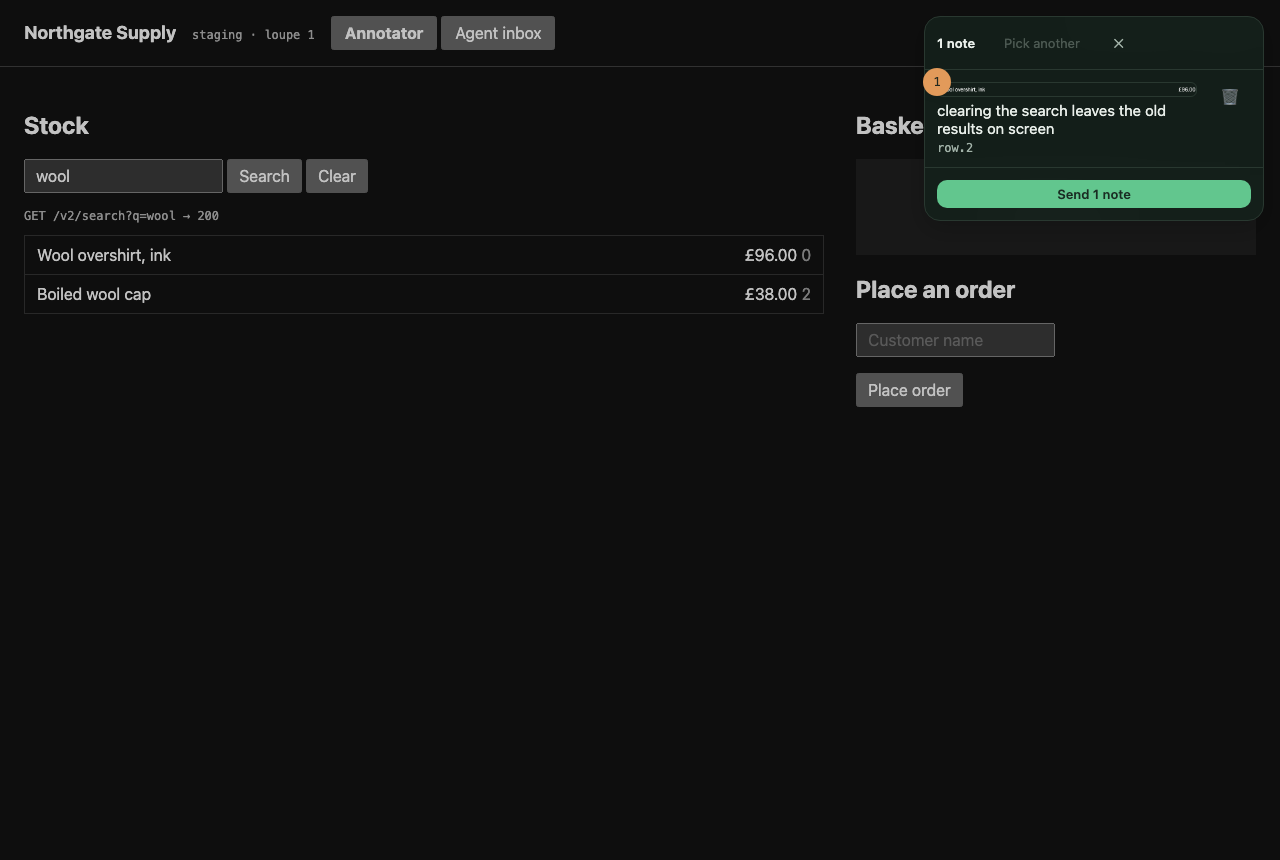
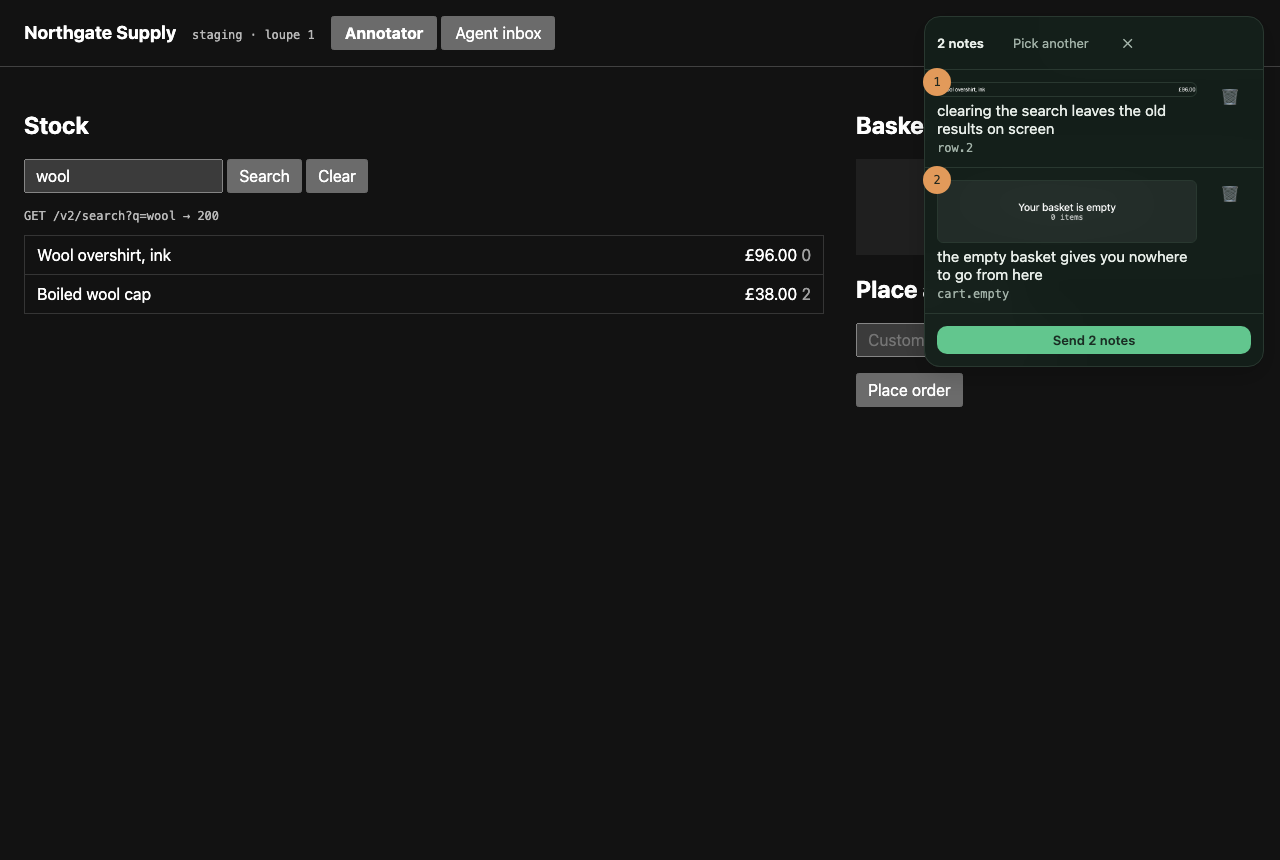
docs: the good web screenshot, and a note about the headless flake
Chrome's --screenshot races the page about one run in three even at a 15s
virtual-time budget, and a raced capture looks exactly like the overlay
failing to appear. It cost a round of chasing a regression that was not there,
so the next agent gets told how to tell the difference.

diff --git a/AGENTS.md b/AGENTS.md
@@ -38,3 +38,8 @@ contract: additive changes only, no breaking renames without a major.
   another realm and the check silently fails. Check `tagName` or duck-type instead.
 - After changing anything visible, re-run the snapshots and look at them:
   `cd Examples/LoupeDemo && swift run LoupeSnapshots ../../docs/screenshots`.
+- For the web, headless Chrome `--screenshot` **races the page** even at
+  `--virtual-time-budget=15000`: roughly one run in three captures before the module
+  script has finished, and the result looks exactly like the overlay failing to
+  appear. Confirm with `--dump-dom` (the scene hook sets `<title>ready`) before
+  believing a blank one, and take the screenshot again rather than chasing it.
